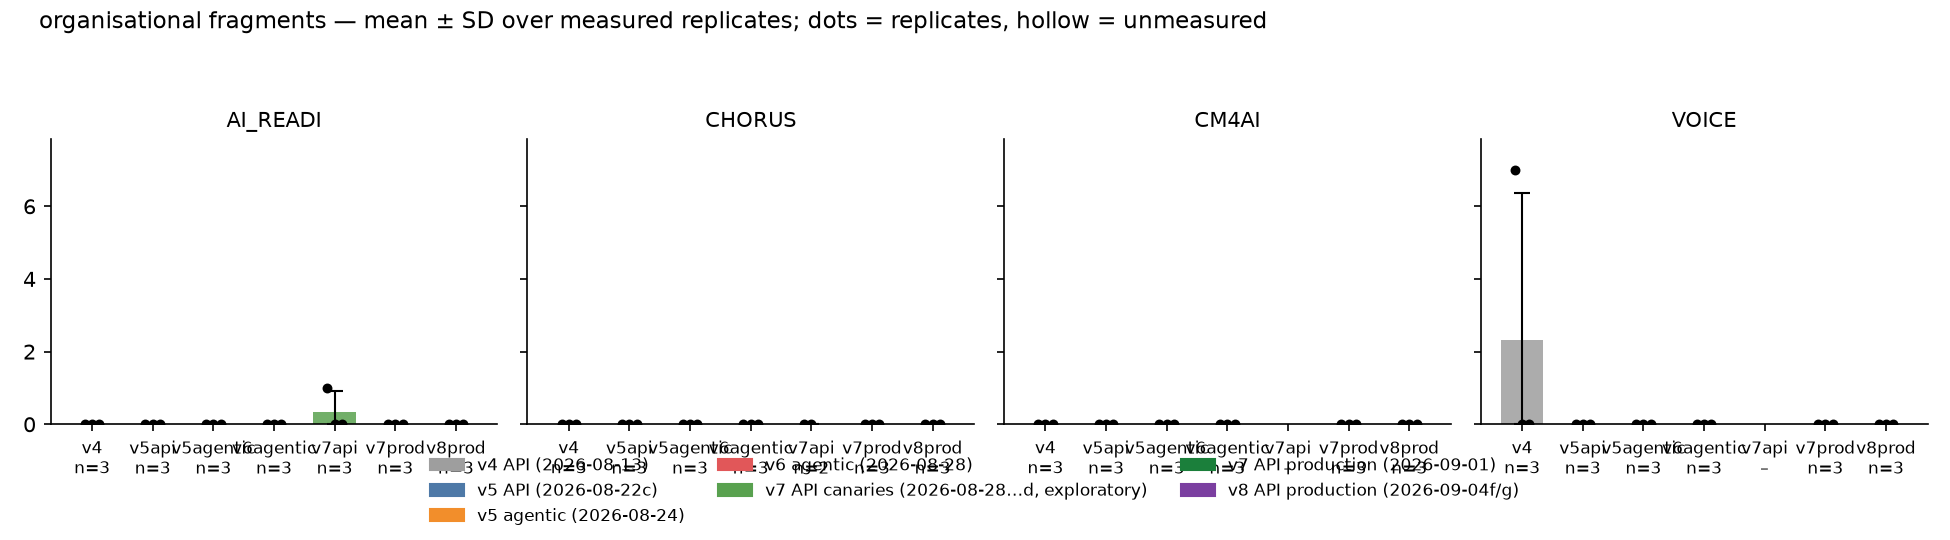
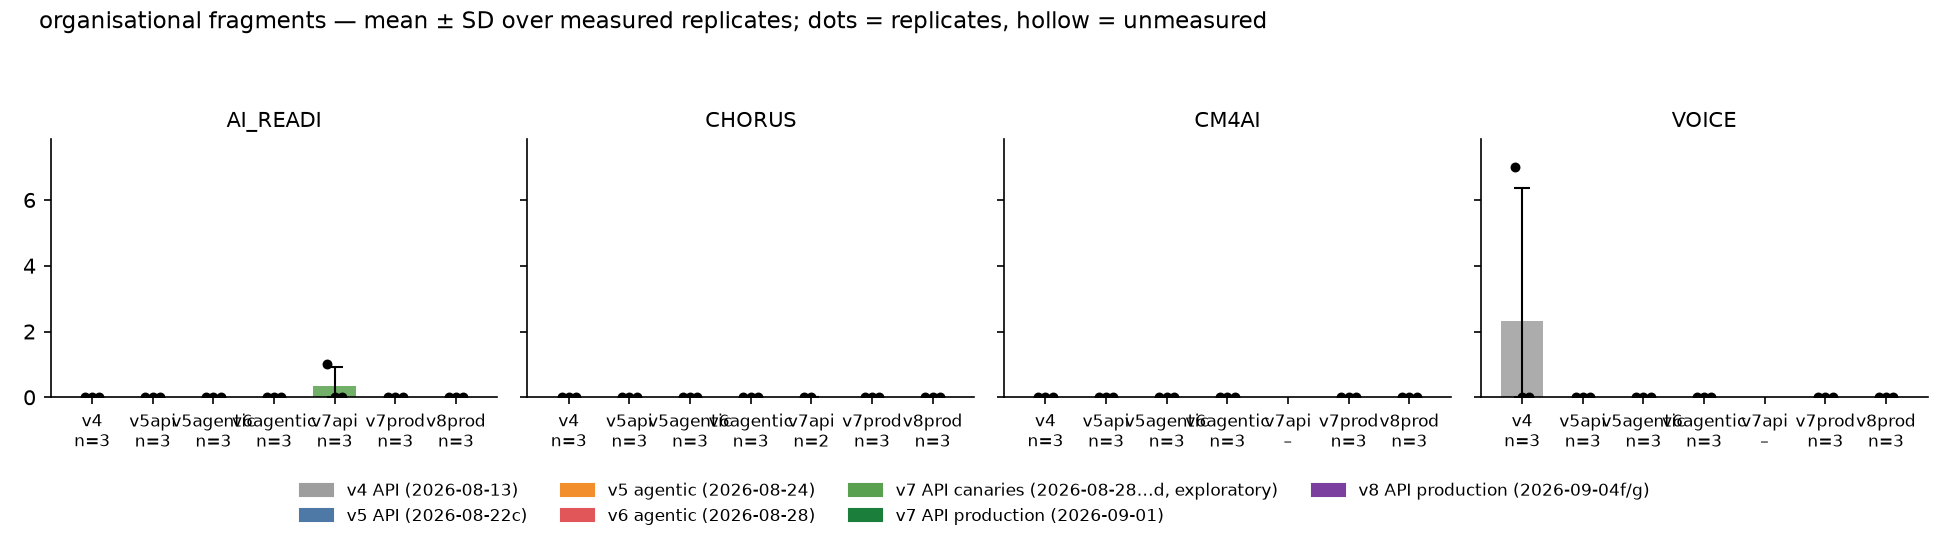
#1052 Codex review of #1050: rubric scores honour the invalid-record exclusion; legend in four columns with room below the axes; the exclusion list deduplicated and cleared per collect
Claude-Session: https://claude.ai/code/session_01FZJCoGQBzUMEKF6XdWAFLc

diff --git a/scripts/arm_comparison.py b/scripts/arm_comparison.py
@@ -177,7 +177,7 @@ METRICS: dict[str, tuple[str, str, bool, str]] = {
 }
 
 
-EXCLUDED_INVALID: list[tuple[str, str]] = []   # (label, project) skipped as invalid
+EXCLUDED_INVALID: dict[tuple[str, str], None] = {}   # (label, project) skipped as invalid; ordered, deduplicated
 
 
 def load(path: Path) -> dict[str, Any]:
@@ -198,7 +198,7 @@ def run_metrics(label: str, project: str) -> dict[str, Any] | None:
         # not an arm member (#1029: the AI_READI 2026-09-04f record, kept
         # and re-verdicted, sits under the same label prefix as the
         # retained VOICE and CHORUS canaries).
-        EXCLUDED_INVALID.append((label, project))
+        EXCLUDED_INVALID[(label, project)] = None
         return None
     pc = rec.get("pair_consistency") or {}
     rc = rec.get("report_claims") or {}
@@ -252,9 +252,12 @@ def rubric_scores(prefix: str, project: str, rubric: str = "rubric10") -> list[d
         return out
     for path in sorted(evals.glob(f"{project}_*_evaluation.json")):
         d = json.loads(path.read_text(encoding="utf-8"))
-        if str(d.get("label", "")) in arm_labels(prefix):
+        label = str(d.get("label", ""))
+        if label in arm_labels(prefix) and (label, project) not in EXCLUDED_INVALID:
+            # The same exclusion as the metric table (#1052): an evaluation
+            # of a record the Bases declare invalid is not an arm score.
             s = d.get("overall_score") or {}
-            out.append({"label": d["label"], "total": s.get("total_points"),
+            out.append({"label": label, "total": s.get("total_points"),
                         "max": s.get("max_points"),
                         "adjusted_max": s.get("adjusted_max_points"),
                         "pct": s.get("normalized_percentage"),
@@ -266,6 +269,7 @@ def rubric_scores(prefix: str, project: str, rubric: str = "rubric10") -> list[d
 def collect() -> dict[str, dict[str, list[dict[str, Any]]]]:
     """arm -> project -> [rep metrics]"""
     data: dict[str, dict[str, list[dict[str, Any]]]] = {}
+    EXCLUDED_INVALID.clear()
     for key, _disp, prefix, _rt, _role in ARMS:
         data[key] = {}
         for p in PROJECTS:
@@ -463,9 +467,9 @@ def write_figures(data, scores) -> None:
         # panel is drawn, so no panel's autoscale freezes the top early.
         axes[0].set_ylim(0, max(1.0, top) * 1.12)
         handles = [plt.Rectangle((0, 0), 1, 1, color=colors[k]) for k, *_ in ARMS]
-        fig.legend(handles, [d for _k, d, *_ in ARMS], loc="lower center", fontsize=8, ncol=3, frameon=False)
+        fig.legend(handles, [d for _k, d, *_ in ARMS], loc="lower center", fontsize=8, ncol=4, frameon=False)
         fig.suptitle(f"{disp} — mean ± SD over measured replicates; dots = replicates, hollow = unmeasured", x=0.02, ha="left", fontsize=11)
-        fig.tight_layout(rect=(0, 0.07, 1, 0.92))
+        fig.tight_layout(rect=(0, 0.12, 1, 0.92))
         out = OUT_FIG / f"arm_comparison_{mk}.png"
         fig.savefig(out, dpi=150); plt.close(fig)
         print(f"wrote {out.relative_to(ROOT)}")
